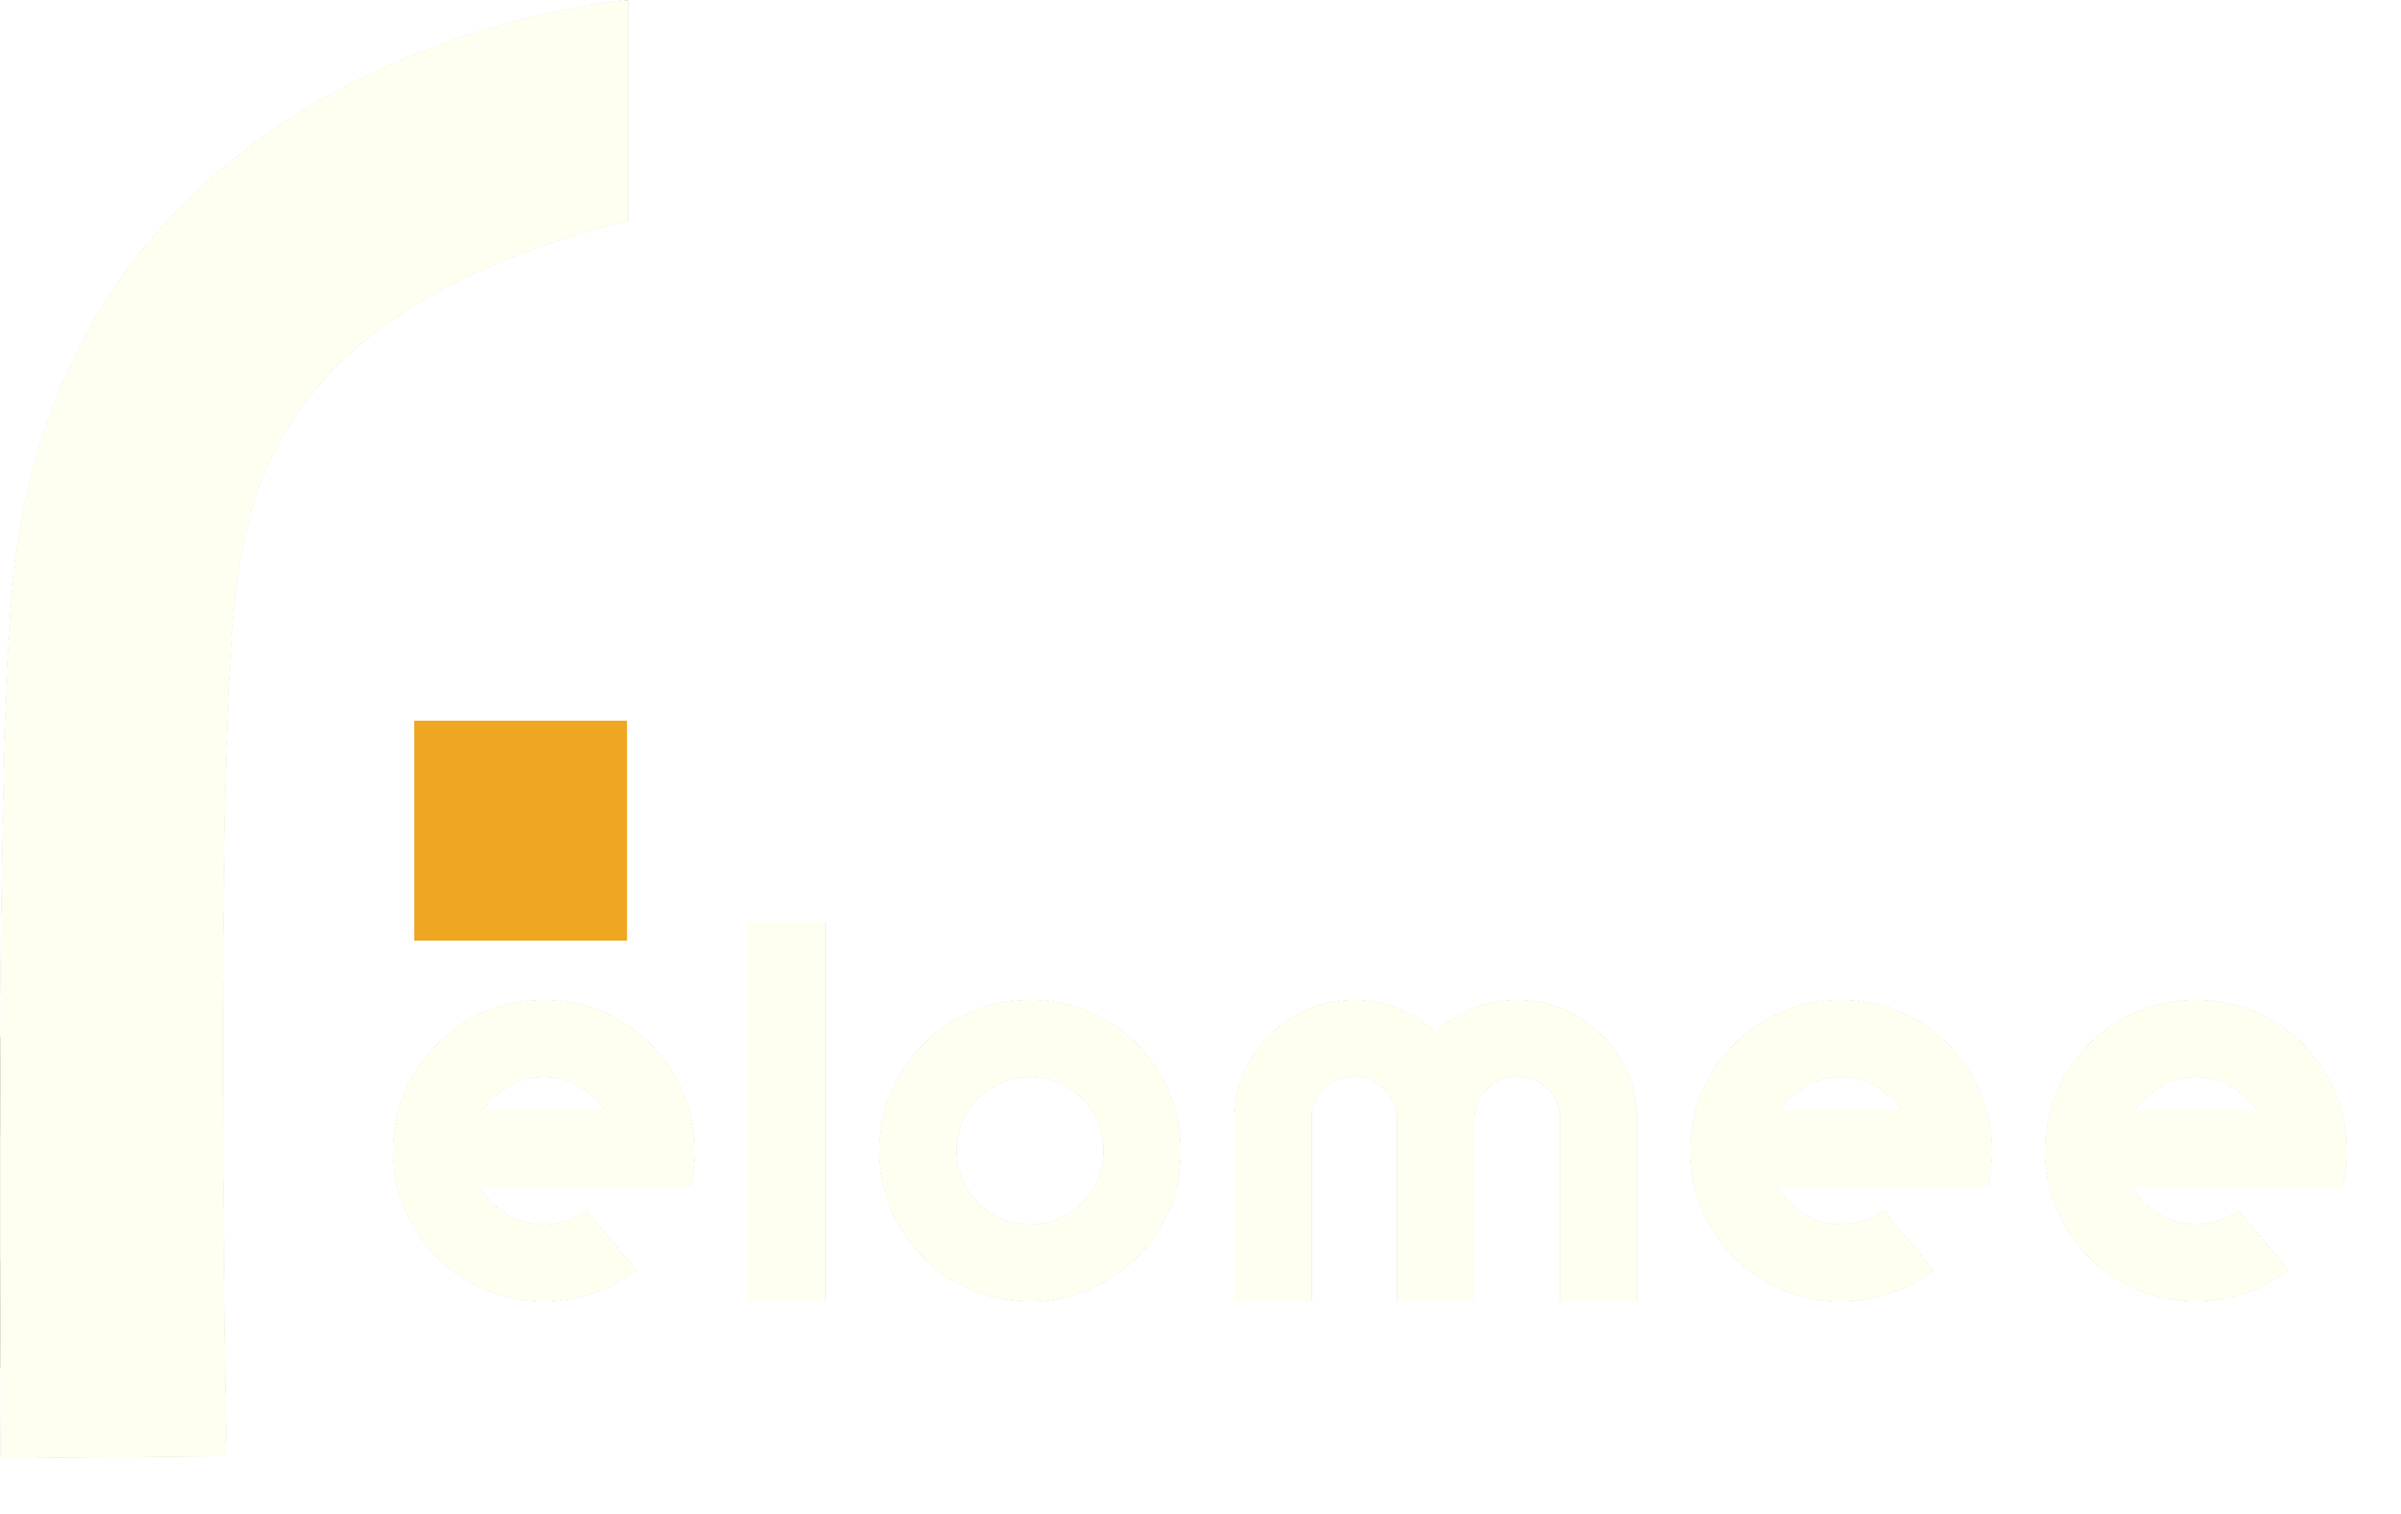
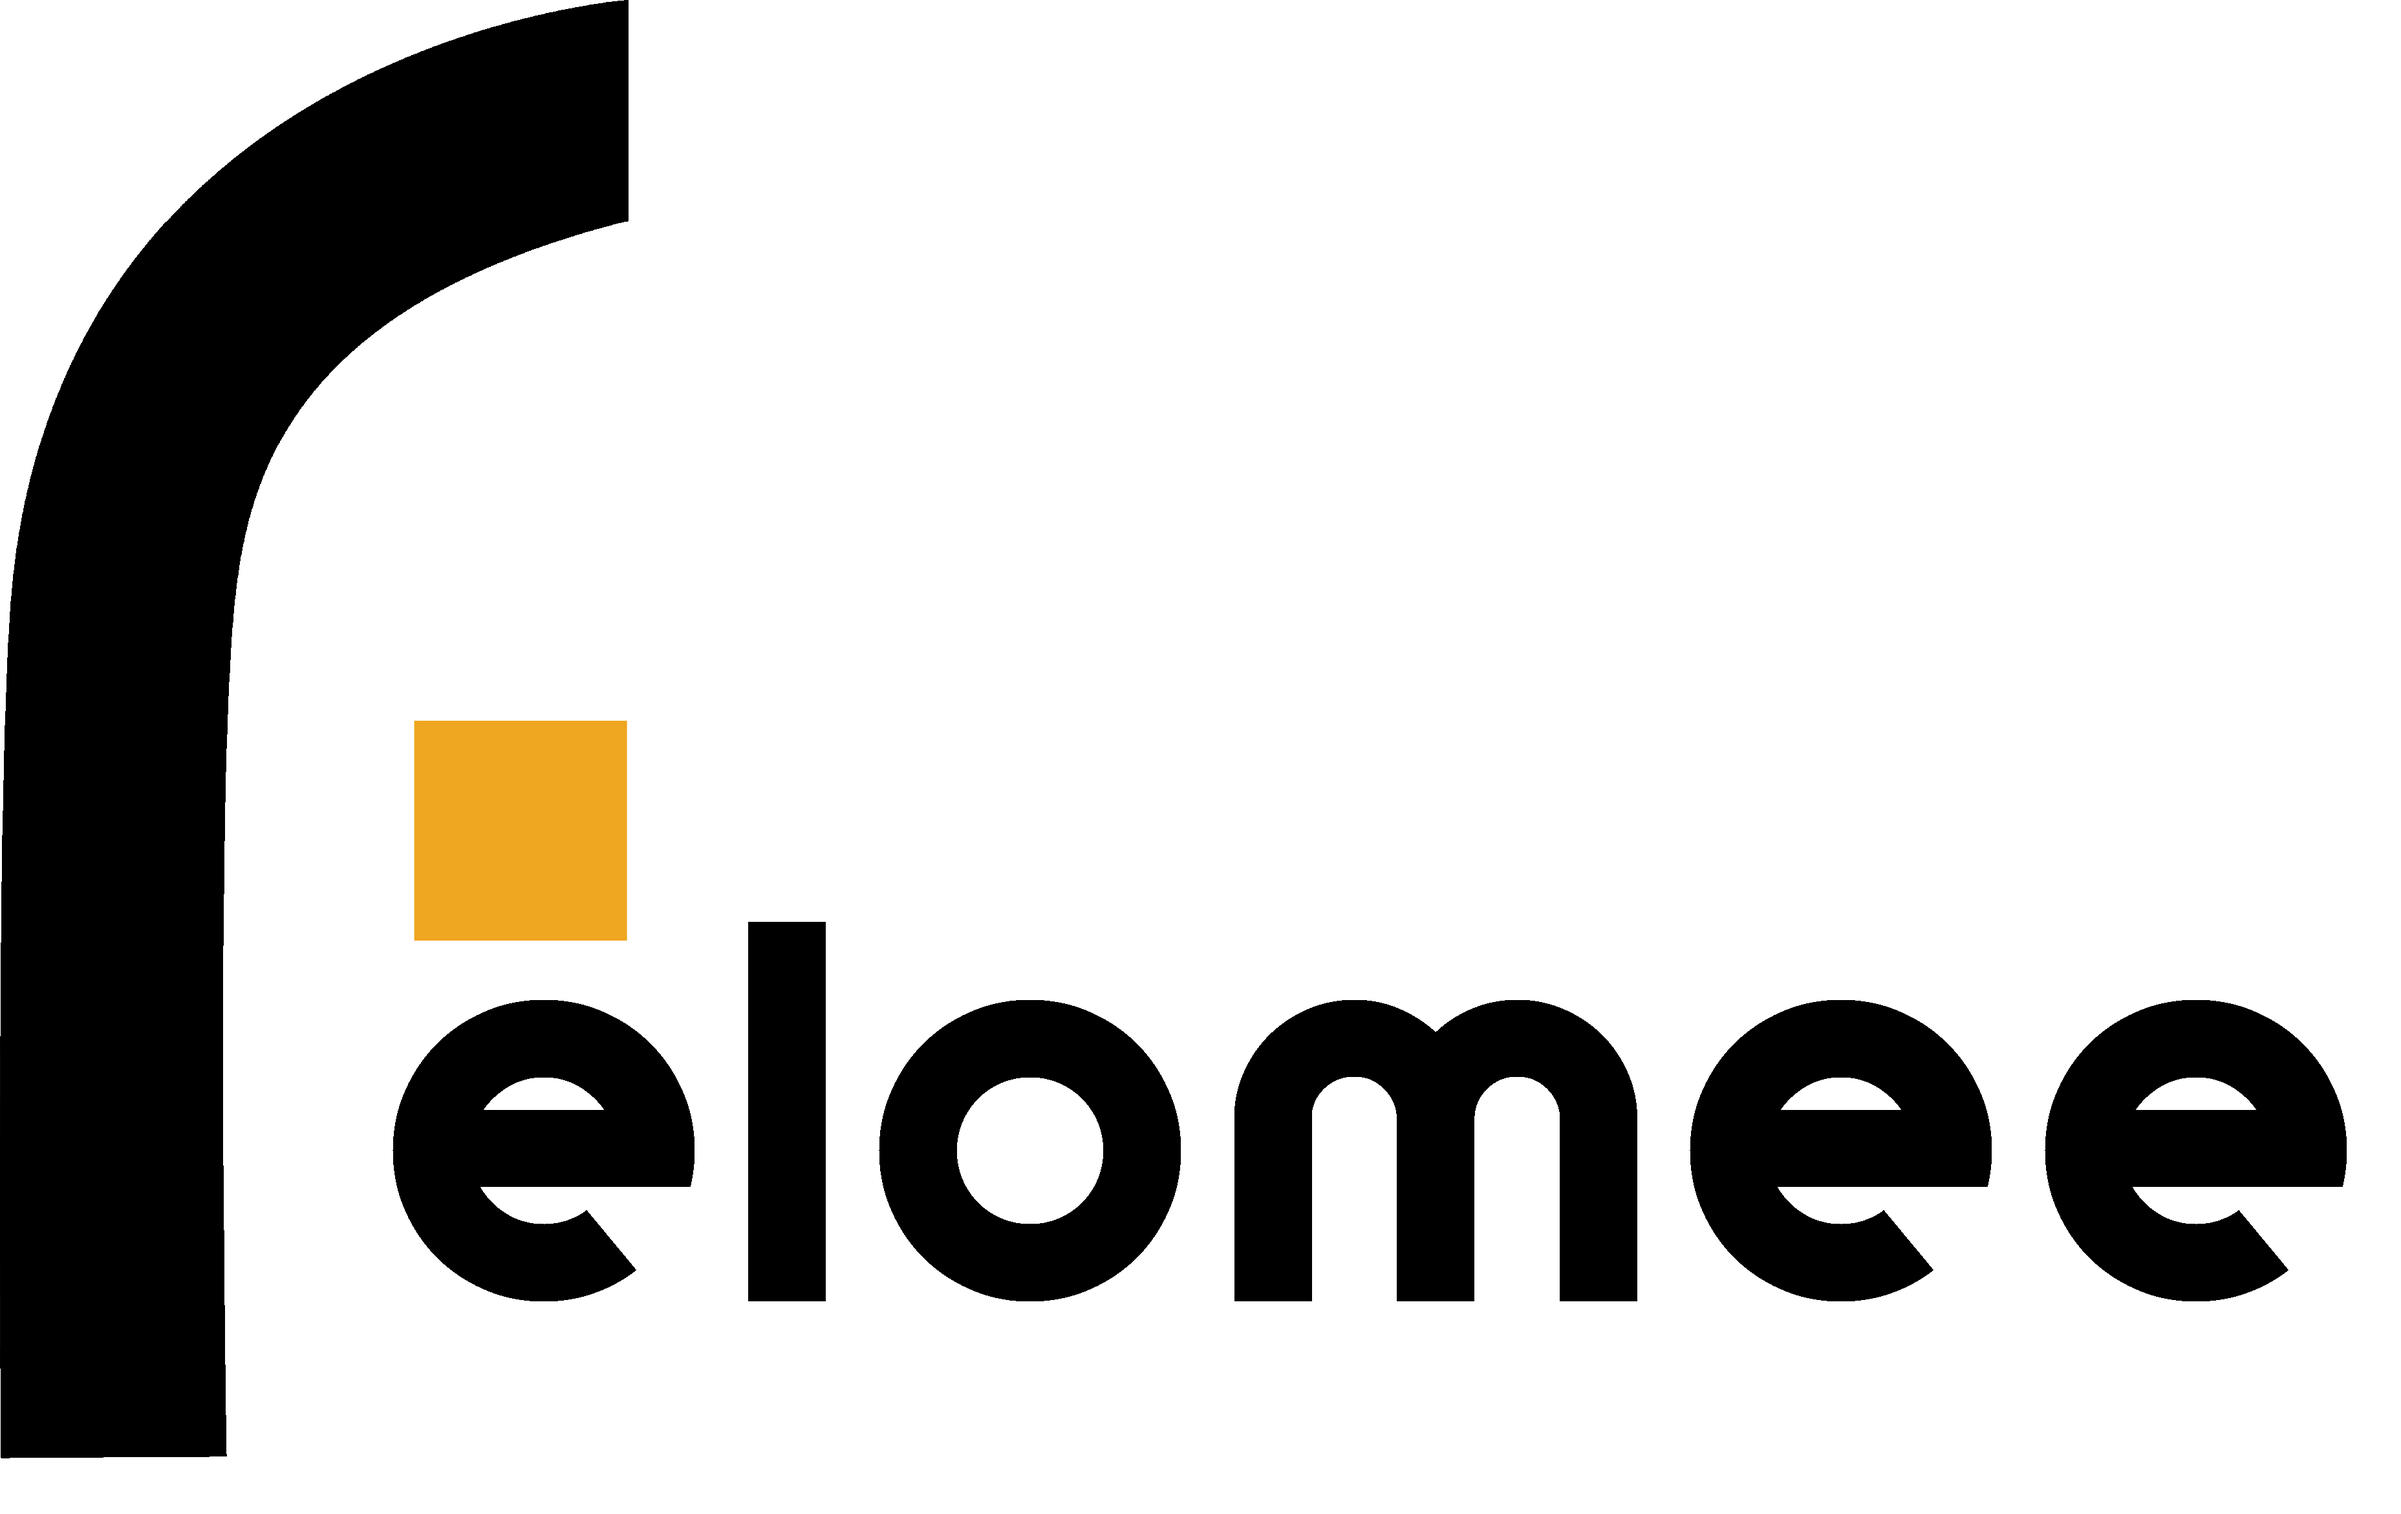
felomee

Changed region(s): [[0.1562, 0.5922, 0.9997, 0.8728], [0.0, 0.0, 0.2812, 0.9663]]

diff --git a/index.html b/index.html
@@ -42,13 +42,11 @@
         
                 .hero {
         
-                    background-color: black !important;
+                    background-color: white !important;
+                    color: black !important;
         
                 }
         
-                .section2 {
-                    background-color: black !important;
-                }
         
                 @media (min-width:992px) {
                     html.w-mod-js:not(.w-mod-ix) [data-w-id="40cfc087-5eb8-2367-ae13-1d2f24257b62"] {
@@ -716,6 +714,7 @@
                     </div>
             </div>
         </div>
+        
         <div data-w-id="5fb2a8bd-317e-1452-fc2e-beb22530dad8" class="section2">
             <div class="text-wrap-2">
 
@@ -760,14 +759,19 @@
             <div class="second-phone-placeholder"></div>
             <div data-w-id="285674b5-cae4-4515-f11d-fed88c408eff" class="bg-circle2"></div>
         </div>
+        <div class="div414">
+            <div class="div286">
+                <img src="assets/img/mob44.png" alt="" class="img1286">
+            </div>
+        </div>
         <div class="color-change-contain">
             <div class="background-color"></div>
         </div>
 
 
 
-        <section id="sec-ai">
-            <div class="ai-div">
+      
+            <!-- <div class="ai-div">
                 <div id="myRadioGroup" class="radio_container">
 
                     <input type="radio" name="cars" checked value="2" id="one" />
@@ -781,7 +785,7 @@
                 <div id="Cars3" class="desc" style="display: none;">
                     <img src="assets/img/aipic2.png" alt="" class="aipic1">
                 </div>
-            </div>
+            </div> -->
         </section>
         <div data-w-id="bb4c7f09-1e6a-9481-35bd-31ba7c448eb1" class="scrolling-thumbs-container">
             <div data-w-id="65679573-7b3a-c13e-25ec-26a018ada495" class="scrolling-thumbs-wrap">
@@ -856,7 +860,7 @@
                         alt="app screen - yellow" class="parallax-image" /></div>
             </div>
         </div>
-        <section id="download-sec">
+       
             <div class="dnd-div">
                 <h1 class="h1-dnd">Lorem ipsum dolor sit amet.</h1>
                 <p class="p-dnd">Lorem ipsum dolor sit amet consectetur adipisicing elit. Hic eius doloribus quibusdam
@@ -883,11 +887,7 @@
                 <a href="" class="a24">Download Now</a>
             </div>
         </div> -->
-        <div class="div414">
-            <div class="div286">
-                <img src="assets/img/mob44.png" alt="" class="img1286">
-            </div>
-        </div>
+       
         <footer class="footer-section">
             <div class="container">
                 
@@ -967,26 +967,7 @@
                 </div>
             </div>
             <div class="copyright-area">
-                <div class="container">
-                    <div class="row">
-                        <div class="col-xl-6 col-lg-6 text-center text-lg-left">
-                            <div class="copyright-text">
-                                <p>@felomee<a href=""></a></p>
-                            </div>
-                        </div>
-                        <div class="col-xl-6 col-lg-6 d-none d-lg-block text-right">
-                            <div class="footer-menu">
-                                <ul>
-                                    <li><a href="#">Home</a></li>
-                                    <li><a href="#">Terms</a></li>
-                                    <li><a href="#">Privacy</a></li>
-                                    <li><a href="#">Policy</a></li>
-                                    <li><a href="#">Contact</a></li>
-                                </ul>
-                            </div>
-                        </div>
-                    </div>
-                </div>
+               
             </div>
         </footer>
 
@@ -1025,6 +1006,11 @@
 
     <script src="https://code.jquery.com/jquery-3.6.0.min.js"></script>
     <script src="assets/js/nav.js"></script>
+    <script>
+        $(document).ready(function() {
+            $(".w-webflow-badge").removeClass("w-webflow-badge").empty();
+        });
+    </script>
 </body>
 
 </html>

diff --git a/assets/css/style.css b/assets/css/style.css
@@ -9,6 +9,9 @@
   padding: 0%;
 
 }
+body{
+  background-color: transparent !important;
+}
 body,
 h1, h2, h3, h4, h5, h6, p, a, .main-p
 {
@@ -16,19 +19,58 @@ h1, h2, h3, h4, h5, h6, p, a, .main-p
       text-decoration: none ;
 }
 /* home page sec  */
+.download-icon{
+  padding: 15px;
+}
+.main-p{
+  color: black !important;
+}
 
+.section2  {
+  background-color: white !important;
+  color: black !important;
+}
+.section2 h1, p{
+  color: black !important;
+}
 @media only screen and (max-width: 768px){
+  .h1-dnd{
+   width: auto;
+  }
+  .dnd-div{
+    width: 100vw;
+    height: auto;
+  }
+  .section2{
+    width: 100vw !important;
+  min-height: 1000px !important;
+  }
+  .main-headlines{
+    margin-top: 150px !important;
+    
+  }
+  .text-wrap{
+    margin-top: 100px !important;
+  }
+.hero{
+  padding: 100px 0 100px 0;
+  width: 100vw !important;
+  height: 700px !important;
+}
   .div2686{
     width: 100%;
     height: auto;
   }
   .download-icon{
-    width: 50%;
+    width: 80%;
     height: auto;
+    display: block;
+    padding: 10px;
+ 
   }
 }
 .div2686{
-  display: flex;
+  
   align-items: center;
   justify-items: center;
   
@@ -88,7 +130,7 @@ width: 50%;
   font-size: 70px;
   font-weight: 600;
   line-height: 70px;
-  color: #f1f3f5;
+  color: black;
 }
 
 
@@ -164,10 +206,13 @@ input[type="radio"]:checked + label {
 .dnd-div{
   width: 100%;
   height: 100%;
-  background-color: #000000;
+  background-color: white;
   text-align: center;
   align-items: center;
   color: #f1f3f5;padding: 100px;
+}
+.dnd-div h1, p{
+  color: black;
 }
 #download-sec{
   margin: 0%;
@@ -209,27 +254,10 @@ input[type="radio"]:checked + label {
 
 }
 
-.hero-heading {
-    background: var(--purple);
-    background: -webkit-linear-gradient(to right, var(--purple), var(--yellow));
-    background: linear-gradient(to right, var(--purple), var(--yellow));
-    -webkit-background-clip: text;
-    background-clip: text;
-    color: transparent;
-}
 
-.scrolling-thumbs-container {
-  background-color: #000000 !important;
-}
 
-.hero {
 
-    background-color: black !important;
 
-}
 
-.section2 {
-    background-color: black !important;
-}
 
  

diff --git a/assets/css/nav.css b/assets/css/nav.css
@@ -70,6 +70,9 @@ button {
   height: auto;
   z-index: 999;
   margin: 0 auto;
+  box-shadow: 1px -6px 12px 9px rgba(0,0,0,0.35);
+-webkit-box-shadow: 1px -6px 12px 9px rgba(0,0,0,0.35);
+-moz-box-shadow: 1px -6px 12px 9px rgba(0,0,0,0.35);
 
 }
 .header .navbar {
@@ -147,7 +150,7 @@ button {
  
 }
 .menu-block .menu-item .menu-link{
-    color: #f7f5f5;
+    color: black;
 }
 .header .menu-block {
   width: 100%;

diff --git a/assets/css/footer.css b/assets/css/footer.css
@@ -127,7 +127,7 @@ ul {
     position: absolute;
     right: 0;
     background: #EEA111;
-    padding: 13px 20px;
+    padding: 20px 20px;
     border: 1px solid #EEA111;
     top: 0;
 }
